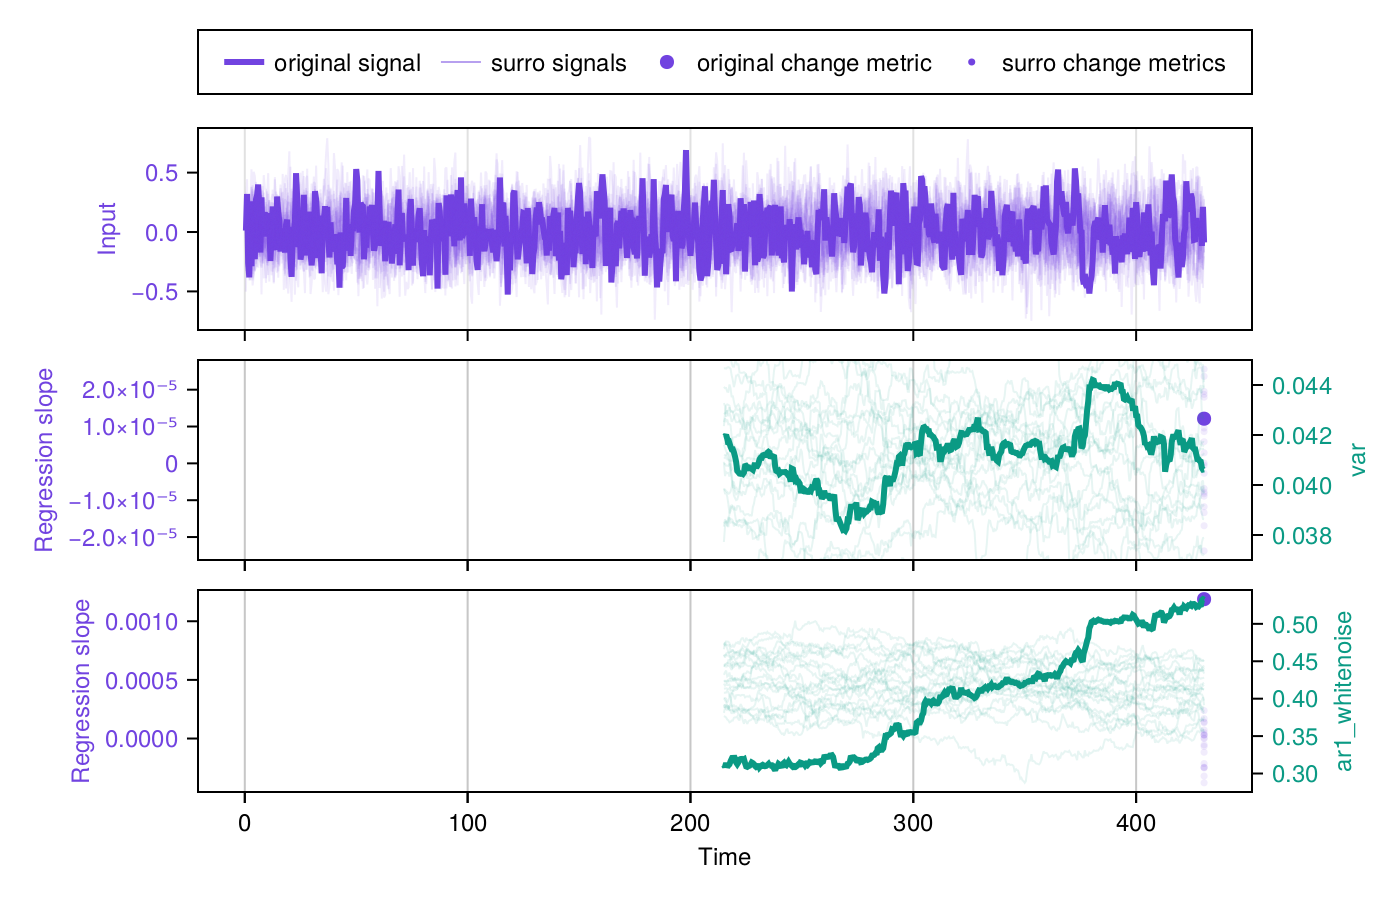
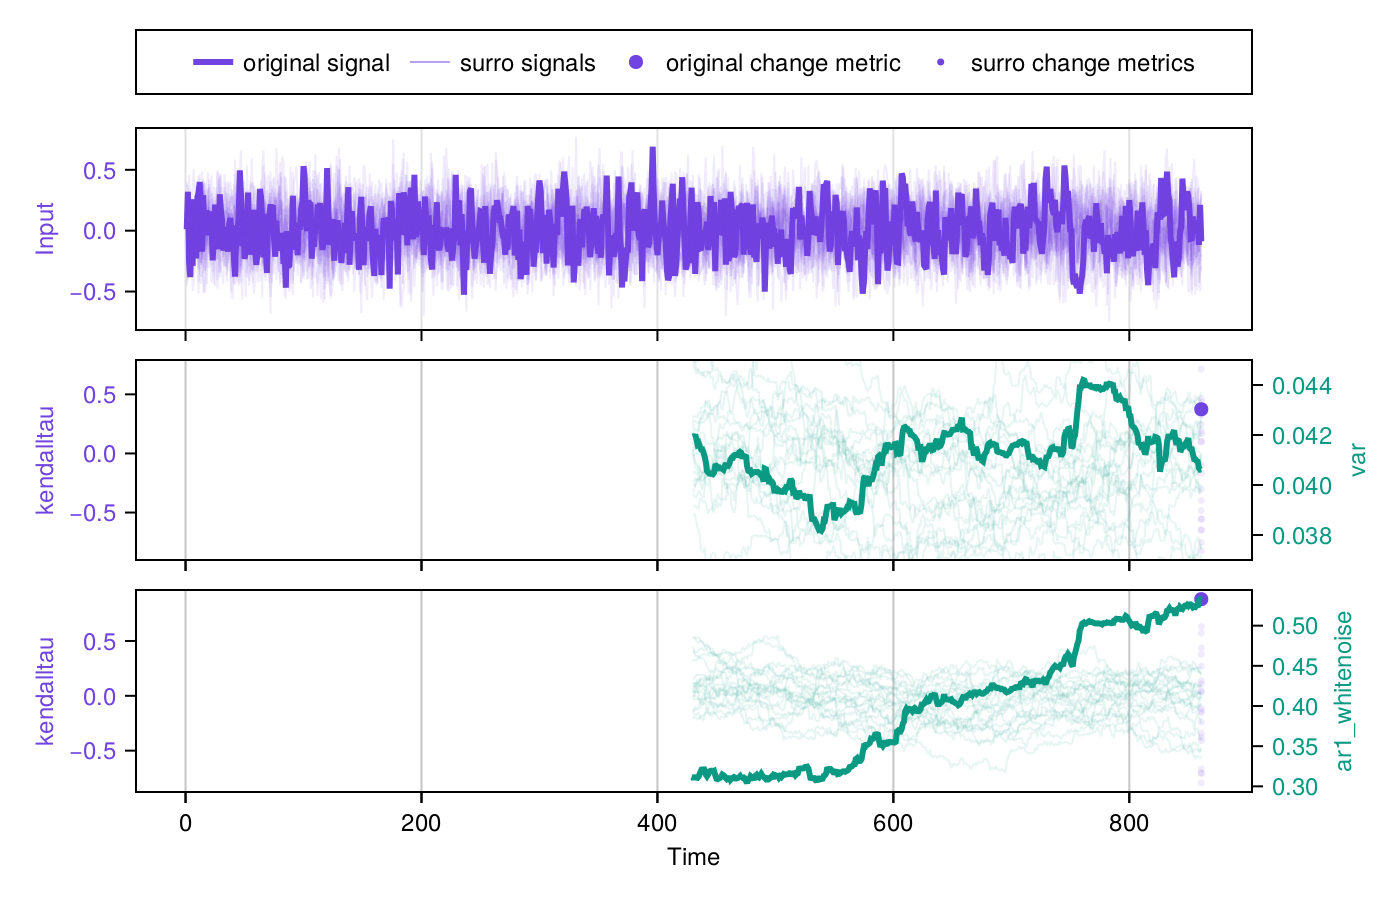
minor modifications (mostly figures)

diff --git a/paper/paper.md b/paper/paper.md
@@ -45,10 +45,9 @@ a lot of attention, both inside and outside of the scientific community. For ins
 work predicting a collapse of the Atlantic Meridional Overturning Circulation between 2025
 and 2095 has led to no less than 870 news outlets and 4100 tweets [@ditlevsen_warning_2023],
 largely because of the substantial implications of such a collapse for human societies.
-However, some published work is not reproducible
-despite their strong policy implications. We believe that this can largely be adressed
-by a unifying software and therefore propose TransitionsInTimeseries.jl, which offers many
-additional advantages.
+However, some published work is not reproducible despite their strong policy implications.
+We believe that this can largely be adressed by a unifying software and therefore propose
+TransitionsInTimeseries.jl, which offers many additional advantages.
 
 # TransitionsInTimeseries.jl
 
@@ -59,7 +58,7 @@ it provides to detect and predict transitions in timeseries with only a few line
 frequent prediction technique relies on observing, prior to a transition, an increase of the
 variance and the AR1 regression coefficient of the detrended time series, which is a
 consequence of Critical Slowing Down (CSD, [@scheffer_early-warning_2009]) and is here
-measured by the slope of a linear regression. To assess whether this increase is significant,
+measured by the Kendall's $\tau$ coefficient. To assess whether this increase is significant,
 one can perform a statistical test, for instance by performing the same computations on 1,000
 surrogates of the original timeseries. The increase in variance and AR1 coefficient can be
 considered significant if the original timeseries classifies in the uppermost 5% of the
@@ -72,7 +71,7 @@ time, data = load_data()
 
 # Choose the indicators and how to measure their change over time
 indicators = (var, ar1_whitenoise)
-change_metrics = (RidgeRegressionSlope(), RidgeRegressionSlope())
+change_metrics = (kendalltau, kendalltau)
 
 # Configuration with adequate parameters of the sliding window over a segment
 config = SegmentedWindowConfig(indicators, change_metrics, [t[1]], [t[end]];
@@ -88,12 +87,12 @@ fig = plot_changes_significance(results, signif)
 ```
 
 We apply this code to data generated by a Ricker model presenting an abrupt transition
-at $t = 440$, which is used in the first tutorial of `ewstools` [@bury_ewstools_2023],
+at $t = 860$, which is used in the first tutorial of `ewstools` [@bury_ewstools_2023],
 the most recent software with functionalities that are similar to TransitionsInTimeseries.jl.
 The results are shown in [Fig. 1](@figure1) and display, as expected from CSD theory, an
-increase in both variance and AR1 coefficient, which is strictly similar to
-[@bury_ewstools_2023]. However, calling `signif.pvalues` shows that the increase in variance is not significant
-($p = 0.286$), whereas the increase in AR1 coefficient is ($p = 0.0$).
+increase in both variance and AR1 coefficient, which is exactly the same as computed
+by `ewstools`. However, calling `signif.pvalues` shows that the increase in variance is not
+significant ($p = 0.284$), whereas the increase in AR1 coefficient is ($p = 0.001$).
 
 ![Output of plotting function in usage example.\label{fig: fig1}](figures/figure1.png)
 
@@ -106,27 +105,31 @@ real-world applications.
 
 TransitionsInTimeseries.jl is written in Julia, which offers both a simple syntax and good
 performance. Additionally, the run-time of all performance-relevant steps have been
-optimized. Significance testing can be the main bottleneck and was therefore parallelised.
-This simply requires the user to activate more threads in their Julia REPL. This is of
+optimized. Significance testing can be the main bottleneck and was therefore parallelised, 
+which simply requires the user to activate more threads in their Julia REPL. This is of
 particular importance since the transition analysis is sometimes performed on 10,000+
 timeseries [@ben-yami_uncertainties_2023], which can last hours with a serial code that is
 not optimized.
 
 ## Reproducibility
 
-Some steps of a transition analysis involve random number generators, which need
-to be handled with care in parallelized codes. This is done in TransitionsInTimeseries.jl,
-which offers the possibility of seeding a random number generator by using the keywordargument `rng`, as done in the example shown above. Furthermore, TransitionsInTimeseries.jl follows the guidelines of semantic versionning which,
-along with Julia's integrated package manager, ensures that the same code is used for both
+Some steps of a transition analysis involve random number generators, which need 
+to be handled with care in parallelized codes. This is done in TransitionsInTimeseries.jl, 
+which offers the possibility of seeding a random number generator by using the 
+keywordargument `rng`, as done in the example shown above. Furthermore, 
+TransitionsInTimeseries.jl follows the guidelines of semantic versionning which, 
+along with Julia's integrated package manager, ensures that the same code is used for both 
 results generation and peer reviewing.
 
 ## Reliability
 
 In high-impact context mentioned above, errors are to be avoided with particular care.
 TransitionsInTimeseries.jl is therefore tested via continuous integration on a large test
-suite, thus providing a reliable research framework. Furthermore, a centralised code base implies
-that any new user is a new test, thus increasing the reliability of the code over time.
-Finally, the robustness of the results with respect to a parameter, e.g. the width of the sliding window, can be easily studied, thus contributing to relibale results.
+suite, thus providing a reliable research framework. Furthermore, a centralised code base
+implies that any new user is a new test, thus increasing the reliability of the code over
+time. Finally, the robustness of the results with respect to a parameter, e.g. the width
+of the sliding window, can be easily studied thanks to the simple syntax, thus contributing
+to the reliability of the results.
 
 ## Versatility
 
